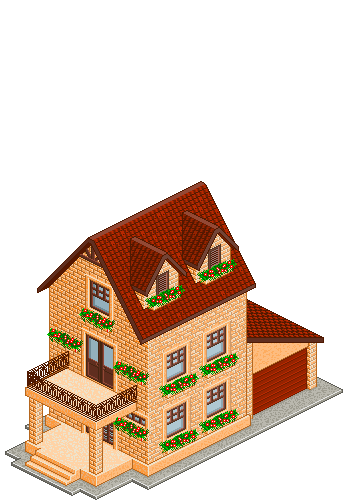
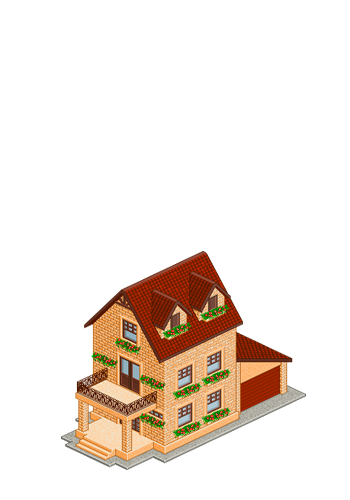
added isometric pattern added rotation by matrix reordering proper z indexes

diff --git a/public/scripts/widgets/gridmap/gridmap.js b/public/scripts/widgets/gridmap/gridmap.js
@@ -15,6 +15,7 @@ Backbone.widget({
     events: {
         'click .map-object': 'displayInfoText',
         'click .move-arrow': 'movePlayer',
+        'click .road ': 'deselectTile',
         'mouseenter .base-grid': 'showSelection',
         'click .block': 'selectTile',
         'mouseleave .base-grid': 'hideSelection'
@@ -22,7 +23,11 @@ Backbone.widget({
 
     listen: {
         'NEW_LEVEL': 'newLevel',
-        'REPLACE_IMAGE': 'replaceImage'
+        'ROTATE_IMAGE': 'rotateImage',
+        'REPLACE_IMAGE': 'replaceImage',
+        'REMOVE_IMAGE': 'removeImage',
+        'ENABLE_DESELECT': 'enableDeselect',
+        'DISABLE_DESELECT': 'disableDeselect'
 
     },
 
@@ -33,8 +38,23 @@ Backbone.widget({
     },
 
     loaded: function () {
-
+        //TODO enable deselect on mouseup outside of the map
+        //this.enableDeselect();
         this.render();
+    },
+
+    enableDeselect: function(){
+        var context = this;
+        $("HTML").on('mouseup', function(e){
+            var container = $(".grid-map-transform");
+            if (!container.is(e.target) && container.has(e.target).length === 0){
+                context.deselectTile();
+            }
+        });
+    },
+
+    disableDeselect: function(){
+        $("HTML").off('mouseup')
     },
 
     render: function () {
@@ -71,6 +91,7 @@ Backbone.widget({
         var mapMatrix = this.getMapMatrix(this.columnCount * 2 + 1, this.rowCount * 2 + 1);
         this.mapTiles(mapMatrix);
         this.renderScene();
+        this.setIndexes();
         this.initFogOfWar();
         this.placePlayer({x: 0, y: 1}, 'car_01_E.png');
 
@@ -167,7 +188,7 @@ Backbone.widget({
                 var $row = $(this.$el.find('.r').get(j));
                 var $col = $($row.find('.base-grid').get(i));
                 $col.attr({"posx": i, "posy": j});
-
+                $col.css({'left': this.boxSize*i + 15, 'top': this.boxSize*j +15})
                 var currentTile = mapMatrix[i][j]
                 if (currentTile == 1) {
                     var roadTile = [];
@@ -198,6 +219,15 @@ Backbone.widget({
         for (var k = 0; k < roadTiles.length; k++) {
             this.roadTiles.push(this.getRoadTileImage(roadTiles[k]));
         }
+    },
+
+    setIndexes: function(){
+        this.$el.find('.r').each(function(){
+            $(this).find($('.base-grid').get().reverse()).each(function(index,gridTile){
+                console.log(index,gridTile)
+                $(gridTile).css('zIndex',index);
+            })
+        })
     },
 
     getRoadTileImage: function (tileArray) {
@@ -267,11 +297,13 @@ Backbone.widget({
             var houseNumber = context.zeroFill(Math.floor((Math.random() * 3) + 1), 2);
 
             var house = '<div class="map-object" style="width:' + context.boxSize + 'px; height:' + context.boxSize + 'px;" data-info="Family house"><img class="grid-image house" src="assets/img/houses/h_' + houseNumber + '.png" style="width:' + context.boxSize + 'px; pointer-events:none;" /></div>'
+           // var house = '<div class="map-object" style="width:' + context.boxSize + 'px; height:' + context.boxSize + 'px;" data-info="Test"><img class="grid-image house" src="assets/img/buildings/test.png" style="width:' + context.boxSize + 'px; pointer-events:none;" /></div>'
             $(this).append(house);
 
             var $lastPlaced = context.$el.find('.house').last();
-            var inversedOffset = Math.floor(-context.boxSize * 0.66667);
-            var matrix = 'matrix(0.66667, 0.66667, -2, 2, ' + context.boxSize * 0.57 + ',' + inversedOffset + ')';
+            var inversedOffsetX = Math.floor(-context.boxSize) - 5;
+            var offsetY = context.boxSize - 5;
+            var matrix = 'matrix(1, 1, -3, 3, ' + offsetY + ',' + inversedOffsetX + ')';
             $lastPlaced.css('transform', matrix);
 
 
@@ -290,6 +322,9 @@ Backbone.widget({
     selectTile: function(e){
         this.selected = $(e.currentTarget);
         this.$el.find('.base-grid-selected').remove();
+        this.$el.find('.selected-map-object').removeClass('selected-map-object');
+
+        this.selected.find('.map-object').addClass('selected-map-object');
         this.selected.prepend('<div class="base-grid-selected"><div class="selected-inner"></div></div>');
         this.$el.find('.base-grid-selected').last().css({'width':this.boxSize, 'height': this.boxSize})
 
@@ -301,9 +336,32 @@ Backbone.widget({
 
     },
 
+    deselectTile: function(){
+        this.selected = null;
+        this.$el.find('.base-grid-selected').remove();
+        this.$el.find('.selected-map-object').removeClass('selected-map-object');
+    },
+
+    rotateImage: function(){
+        if(this.selected == null) return;
+        var currentMatrix = this.selected.find('.house').css('transform');
+            var values = currentMatrix.split('(')[1];
+            values = values.split(')')[0];
+            values = values.split(',');
+            var a = values[0]; var b = values[1]; var c = values[2]; var d = values[3]; var e = values[4]; var f = values[5];
+        if(a == '1'){a = '-1'; b = '-1';}else{a = '1';b = '1';}
+        var newMatrix = 'matrix('+ a +','+ b +','+ c +','+ d +','+ e +','+ f + ')'
+        this.selected.find('.house').css('transform', newMatrix);
+    },
+
     replaceImage: function(imageSrc){
         if( this.selected == null) { return };
         this.selected.find('.house').attr('src', imageSrc);
+    },
+
+    removeImage: function(){
+        if( this.selected == null) { return };
+        this.selected.find('.house').remove();
     },
 
     showSelection: function (e) {

diff --git a/public/scripts/widgets/editmenu/assets/template.html b/public/scripts/widgets/editmenu/assets/template.html
@@ -12,6 +12,8 @@
                     <option value="assets/img/houses/h_01.png">House 1</option>
                     <option value="assets/img/houses/h_02.png">House 2</option>
                     <option value="assets/img/houses/h_03.png">House 3</option>
+                    <option value="assets/img/buildings/gas_01_S.png">Gas 1</option>
+                    <option value="assets/img/buildings/test.png">Test</option>
                 </select>
             </div>
             <div class="col-lg-8" style="padding:4px;">
@@ -22,8 +24,9 @@
             </div>
 
             <div class="col-lg-8 " style="padding:4px; margin-top:10px;">
-                <button class="btn btn-primary pull-left" id="rotate-tile">Rotate</button>
+                <button class="btn btn-primary pull-left" id="rotate-image">Rotate</button>
                 <button class="btn btn-primary pull-right" id="replace-image">Replace</button>
+                <button class="btn btn-primary pull-right" id="remove-image">Remove</button>
             </div>
 
         </div>

diff --git a/public/scripts/widgets/editmenu/editmenu.js b/public/scripts/widgets/editmenu/editmenu.js
@@ -6,6 +6,8 @@ Backbone.widget({
         // Map control
         'change #select-tile':'changeImagePreview',
         'click #replace-image':'replaceImage',
+        'click #rotate-image':'rotateImage',
+        'click #remove-image':'removeImage',
         'click #new-level': 'newLevel',
         'click #load-level': 'loadLevel'
 
@@ -35,9 +37,15 @@ Backbone.widget({
         this.$el.find('.image-preview').attr('src',this.$el.find('#select-tile').val())
     },
 
-    replaceImage: function(){
-        console.log('asd');
+    removeImage: function(){
+        this.fire('REMOVE_IMAGE')
+    },
 
+    rotateImage: function(){
+        this.fire('ROTATE_IMAGE')
+    },
+
+    replaceImage: function(){
         this.fire('REPLACE_IMAGE', this.$el.find('#select-tile').val())
     }
 

diff --git a/public/assets/css/gridmap.css b/public/assets/css/gridmap.css
@@ -10,7 +10,7 @@
     position:absolute;
 }
 .base-grid {
-
+    position:absolute;
 }
 /*.house{*/
     /*-moz-transform:  matrix(0.666667, 0.66667, -2, 2, 46, -58);*/
@@ -46,6 +46,11 @@ canvas{
     z-index: 9;
     border: 1px dashed white;
 }
+
+.selected-map-object {
+    opacity:0.6;
+}
+
 .selected-inner {
     width: 100%;
     height: 100%;
@@ -76,7 +81,6 @@ canvas{
 
 #grid-container .block{
     background: #A19C73;
-    float: left;
     z-index: 1;
     cursor: pointer;
 }

diff --git a/public/scripts/widgets/controlmenu/controlmenu.js b/public/scripts/widgets/controlmenu/controlmenu.js
@@ -13,7 +13,6 @@ Backbone.widget({
 
     loaded: function () {
         $(".base-container").draggable();
-
     },
 
     render: function () {
@@ -28,7 +27,7 @@ Backbone.widget({
         }
     },
 
-    newLevel: function () {
+    newLevel: function (e) {
         $('.fog-of-war input').prop('checked', false);
         var rows = this.$el.find('#new-level-rows').val();
         var cols = this.$el.find('#new-level-cols').val();
